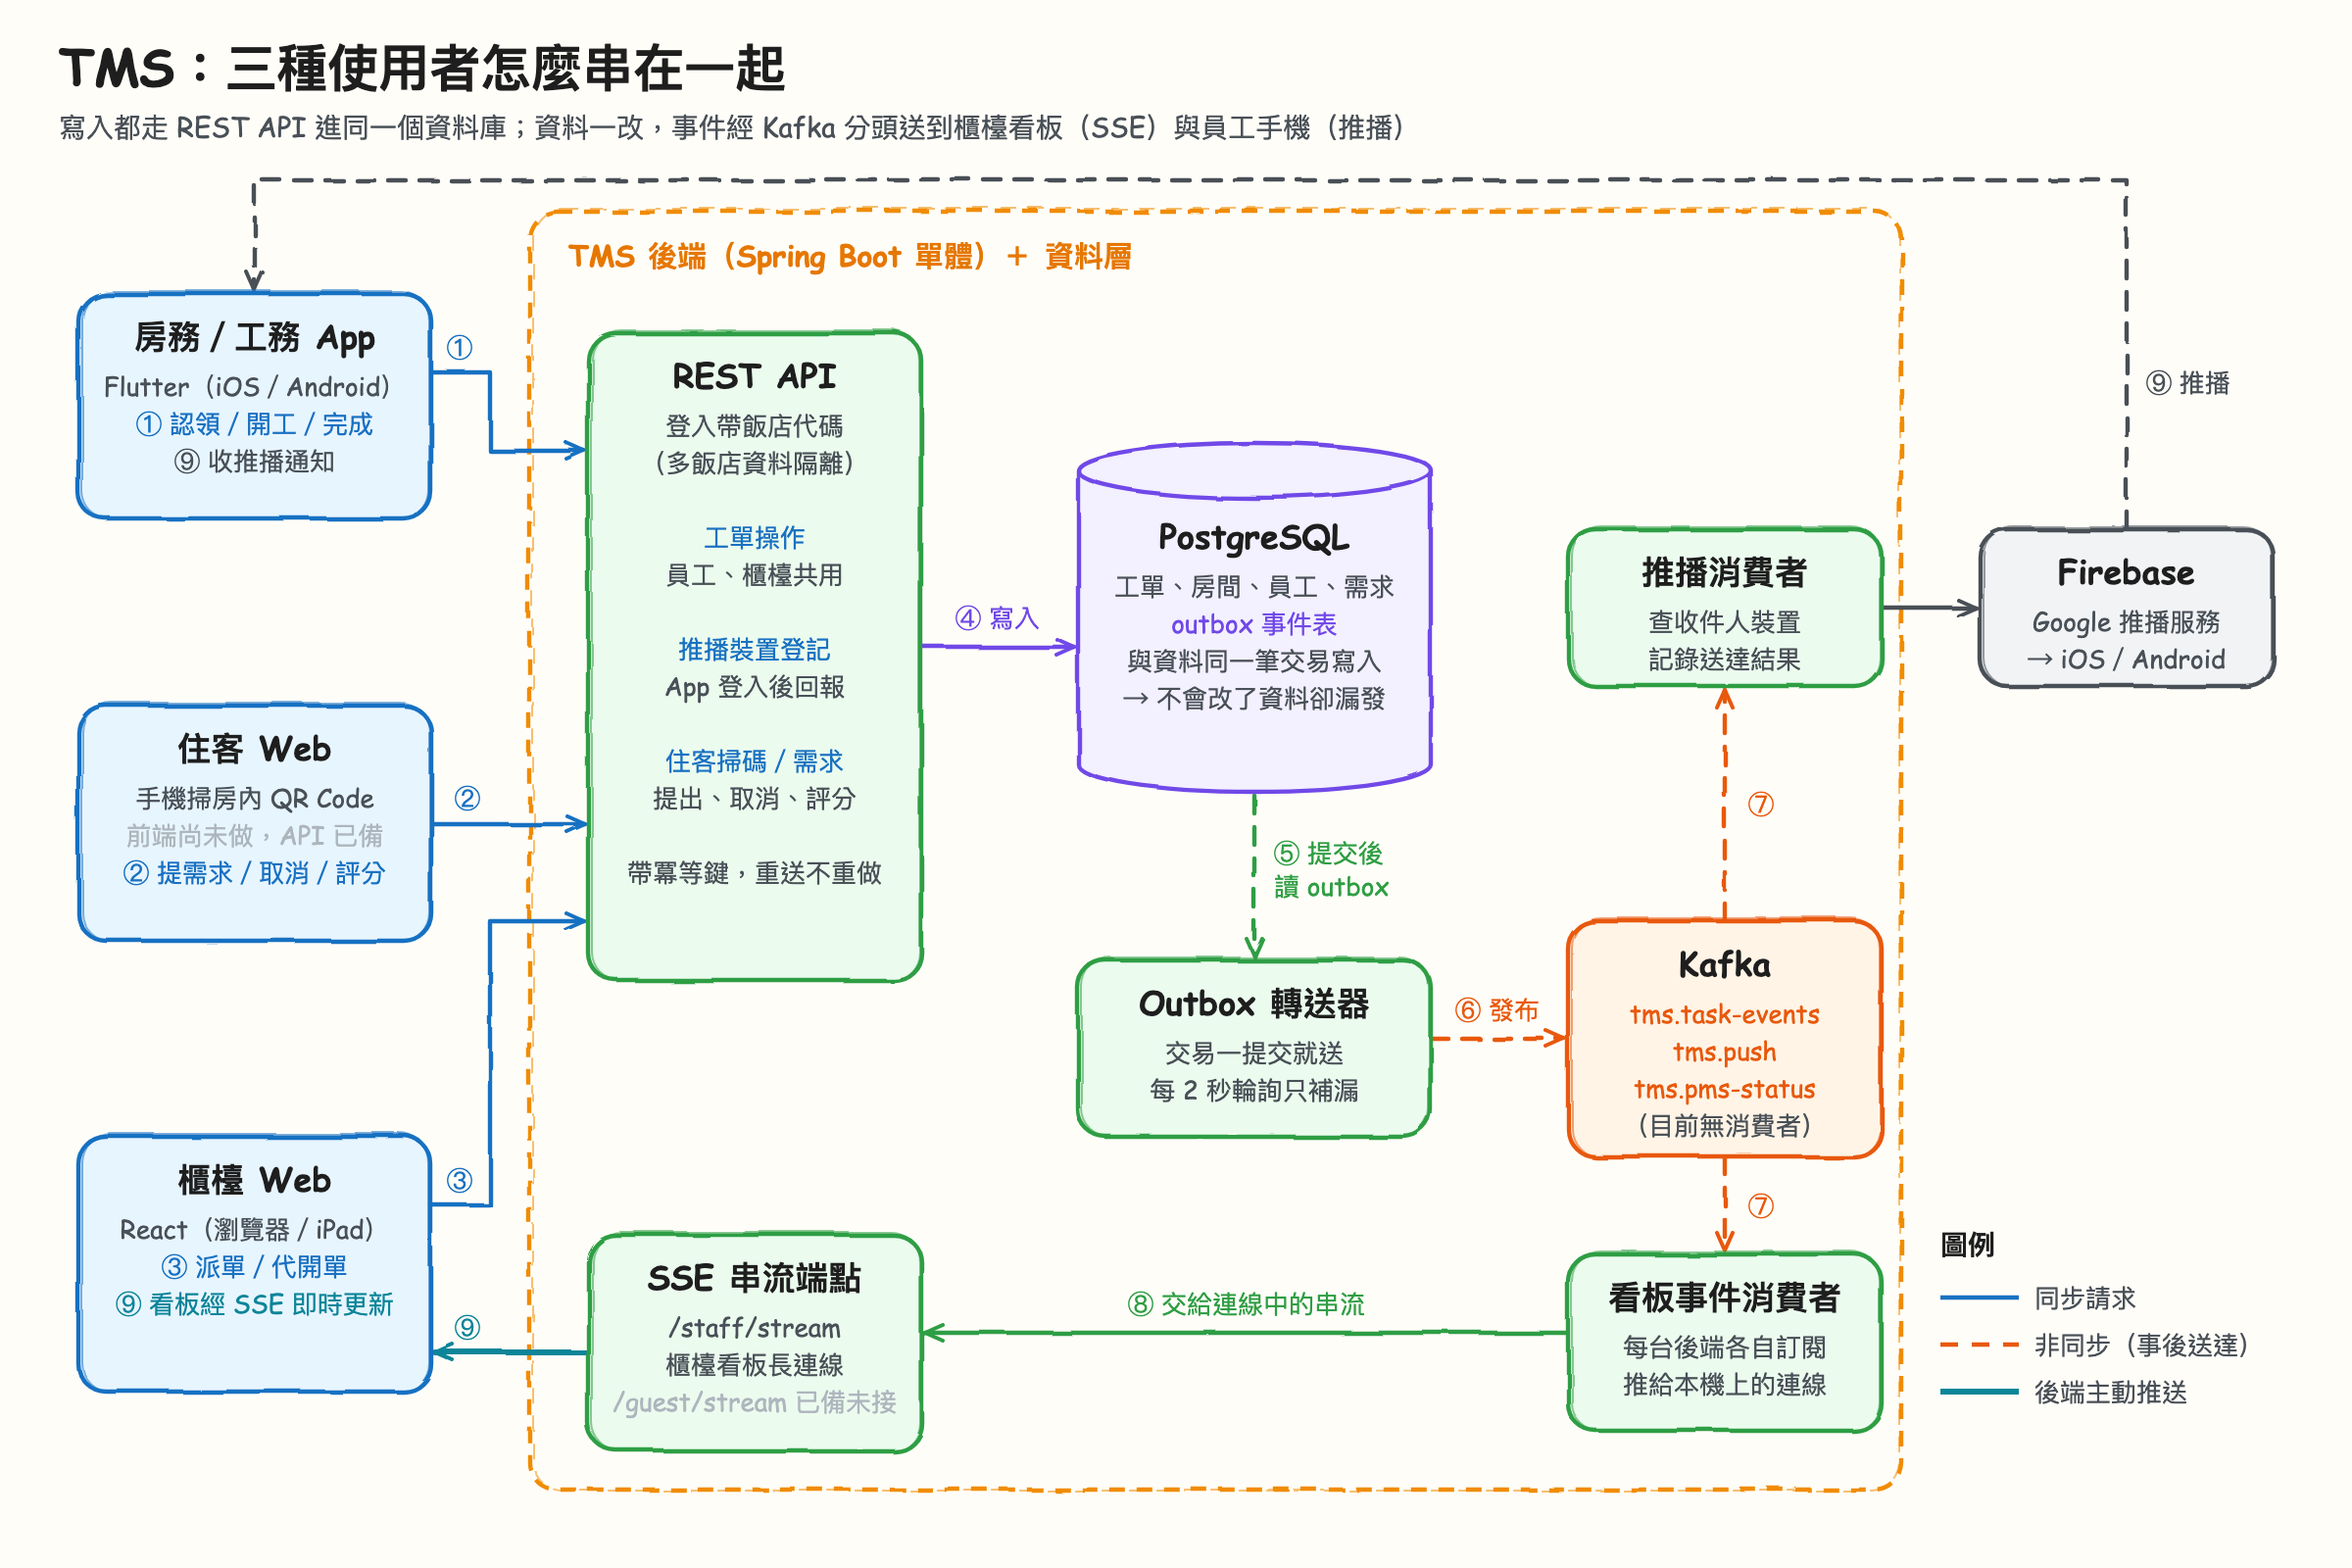
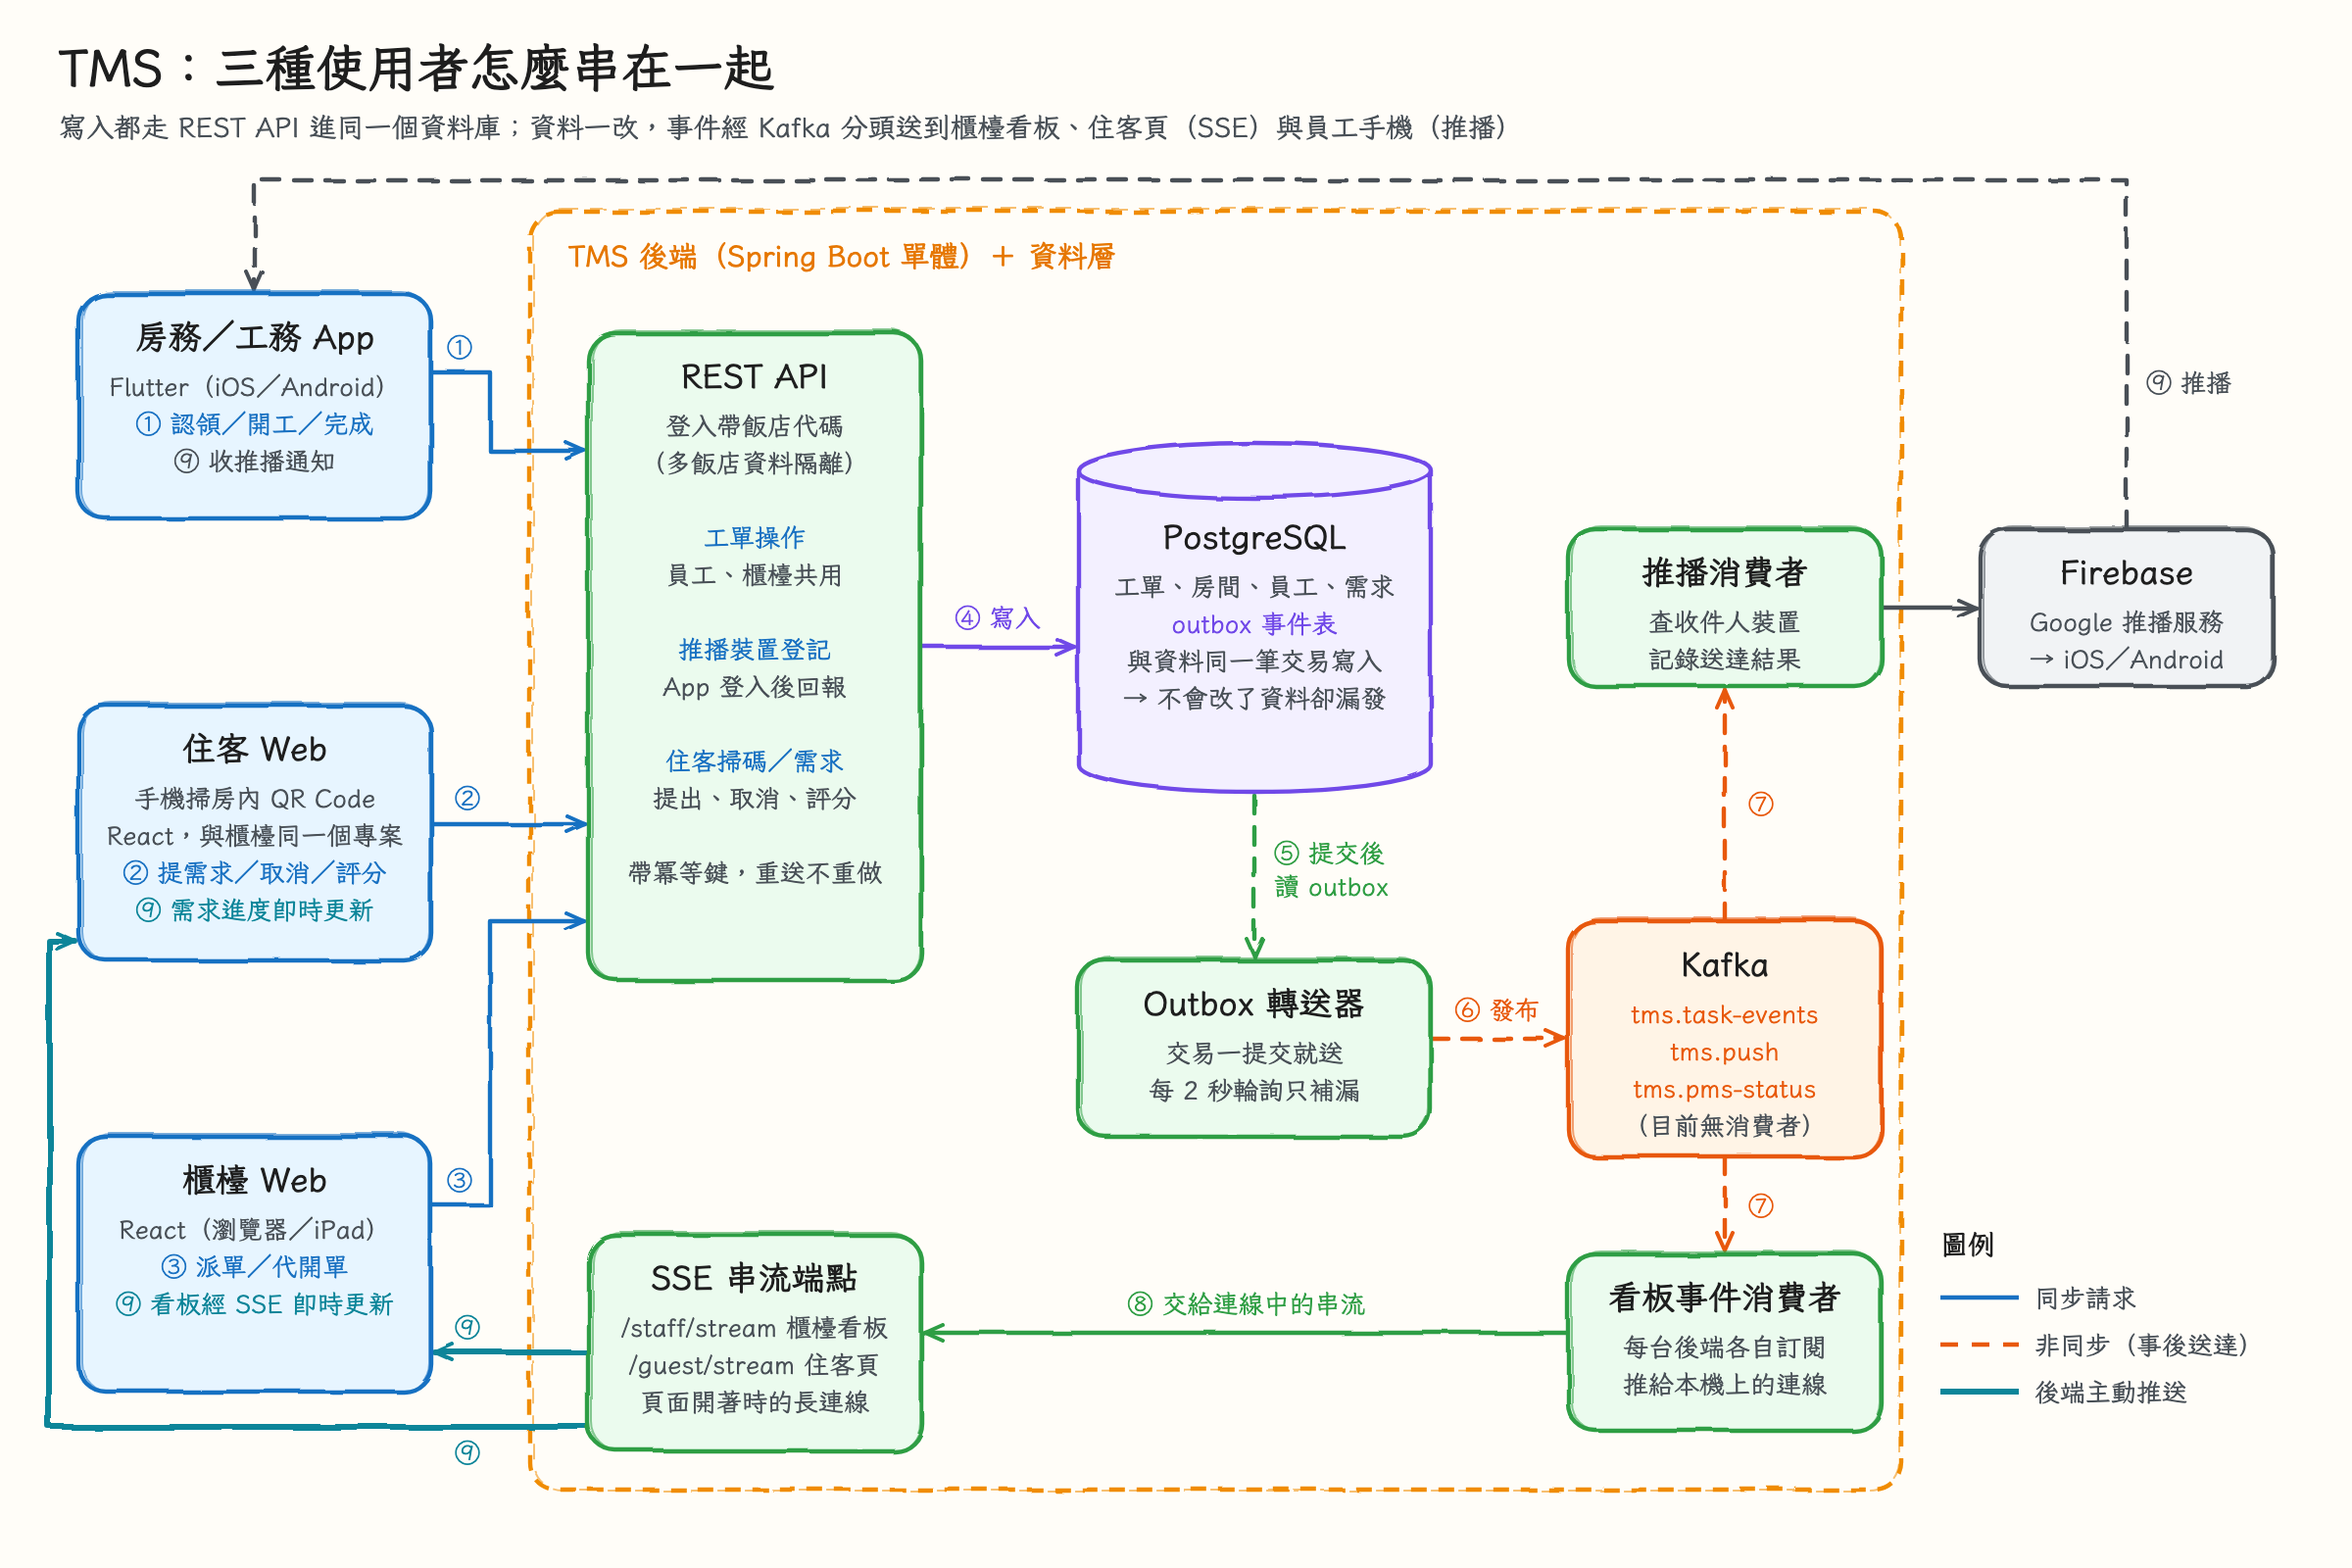
docs: README 改指向交接手冊、住客 Web 已上線；交接手冊移除過時說法；架構圖補住客頁 SSE
- README 文件導覽改指向 docs/14-handover，說明 11/12/13 是開發前設計稿
- README 住客 Web 改為已上線（app/web/src/guest，連 /guest/stream）
- 交接手冊總覽不再指路 11/12，改指 specs/truth/features 與 Flyway 遷移檔
- 移除「006 分支還沒合進 main／有未提交修改」的說法（已經 PR #7 合併），pitfalls 刪除 U1
- 架構圖住客 Web 改為已上線，補 /guest/stream 推到住客頁的箭頭

diff --git a/docs/14-handover/index.html b/docs/14-handover/index.html
@@ -24,7 +24,7 @@
 <header>
   <p class="eyebrow">TMS 任務交辦系統 · 工程交接</p>
   <h1>TMS 交接手冊</h1>
-  <p class="stand">這一頁 3 分鐘讀完：系統長什麼樣、你該先讀哪一頁、交接前最要緊的幾件事。細節都在後面五頁，照你手上的任務挑著讀就好。</p>
+  <p class="stand">這一頁 3 分鐘讀完：系統長什麼樣、你該先讀哪一頁、交接前最要緊的幾件事。細節都在後面六頁，照你手上的任務挑著讀就好。</p>
 </header>
 
 <section id="who">
@@ -32,7 +32,7 @@
   <div class="key"><b class="lbl">重點</b>
     <p>給接手這個 repo 的工程師。讀完能在自己的 Mac 上把三條驗收測試跑起來、知道新增一個測試場景要改哪幾個檔，並看懂員工 App 與 Java 後端怎麼組起來、哪裡會咬人。</p>
   </div>
-  <p>這裡只講「程式怎麼跑、測試怎麼跑、會在哪裡卡住」。需求與系統設計的來龍去脈請看 <a href="../11-requirements-architecture.html">11-requirements-architecture.html</a>，逐欄位的資料模型看 <a href="../12-data-model.html">12-data-model.html</a>。</p>
+  <p>這裡只講「程式怎麼跑、測試怎麼跑、會在哪裡卡住」。需求以 <code>specs/truth/features/</code> 的可執行規格為準，資料表以 <code>tms/src/main/resources/db/migration/</code> 的 Flyway 遷移檔為準；<code>docs/</code> 底下 11、12、13 等開發前的設計稿沒有跟著程式碼更新，不要拿來當依據。</p>
 </section>
 
 <section id="overview">
@@ -172,7 +172,7 @@
   </div>
   <ol class="top">
     <li><b>每條 Java 指令都要切到 JDK 25，後端測試還要帶 <code>-DargLine="-Dapi.version=1.44"</code>。</b>原機器 shell 預設是 17；那個參數是 OrbStack 上跑 Testcontainers 的唯一解法，沒寫進任何設定檔。<a href="setup.html#verify">怎麼確認環境通了</a></li>
-    <li><b>目前分支 <code>bugfix/main_engineering_pool_repair_ticket</code> 還沒合進 main，已知會紅的測試清單在 <code>specs/plans/006-engineering-pool-repair-ticket/implement-notes.md</code>。</b>第一次跑出紅燈，先對照它再懷疑環境。</li>
+    <li><b>已知會紅的測試清單在 <code>specs/plans/006-engineering-pool-repair-ticket/implement-notes.md</code>。</b>第一次跑出紅燈，先對照它再懷疑環境。</li>
     <li><b>App 與網頁驗收每個場景都會清空資料庫。</b>兩條線預設共用 8080／5433，不能同時跑；手動操作一律用 8083／<code>tms_manual</code>。<a href="setup.html#environments">三套環境</a></li>
     <li><b>既有的 Flyway 遷移檔一個字都不能改，連註解都不行。</b>改了後端就啟動失敗，要修只能新增更高版號的檔。<a href="backend.html#flyway">遷移規矩</a></li>
     <li><b>Android 正式版缺網路權限。</b><code>INTERNET</code> 只宣告在 debug 與 profile，release APK 會連不上網，是上線前最優先要修的一條。<a href="pitfalls.html#app-gaps">App 還沒補的洞</a></li>

diff --git a/docs/14-handover/pitfalls.html b/docs/14-handover/pitfalls.html
@@ -114,15 +114,14 @@
 <section id="todo">
   <h2>接手後還有哪些事要先查？</h2>
   <div class="key"><b class="lbl">重點</b>
-    <p>18 件盤點時沒能從程式碼確認、或要實際執行才知道的事，分四組。先處理第一組：目前分支的未提交修改怎麼收尾、測試現在綠不綠。</p>
+    <p>17 件盤點時沒能從程式碼確認、或要實際執行才知道的事，分四組。先處理第一組：測試現在綠不綠。</p>
   </div>
 
   <details open>
-    <summary>分支與測試現況 <span class="hint">— 5 件，最先處理</span></summary>
+    <summary>測試現況 <span class="hint">— 4 件，最先處理</span></summary>
     <div class="in"><div class="tablewrap"><table>
       <thead><tr><th>#</th><th>沒確認的事</th><th>目前知道的</th><th>建議怎麼查</th></tr></thead>
       <tbody>
-        <tr><td class="id">U1</td><td>目前分支未提交的修改要不要、怎麼收尾</td><td>工作樹有一批工務池開單相關的修改與新檔（例如 <code>repair/RepairTicketOpener.java</code>、<code>RepairTicketDraft.java</code>、<code>integration/V29EngineeringTaskBackfillTest.java</code>、<code>scripts/manual-env/up.sh</code>）。規劃中的 <code>V29__engineering_tasks_get_repair_tickets.sql</code> <b>還不存在</b>，但對應的測試檔已經有了</td><td><code>git status</code>；對照 <code>specs/plans/006-engineering-pool-repair-ticket/tasks.md</code> 與 <code>implement-notes.md</code></td></tr>
         <tr><td class="id">U2</td><td>測試目前綠不綠</td><td>盤點時沒有實跑任何測試。只能引用 006 implement-notes 的基準：後端行為規格 14 筆紅、Web 即時更新時序逾時數筆、住客 1 筆、App 工務單 11 筆</td><td>照<a href="setup.html#verify">三步確認</a>實跑一次，與 implement-notes 的清單比對</td></tr>
         <tr><td class="id">U13</td><td>App 是否曾在 Appium 上完整跑過一輪</td><td>紀錄上有一項「員工 App 連 Appium 實跑」曾待補跑，目前狀態不明</td><td><code>app/bdd/run-all.sh</code> 跑一次</td></tr>
         <tr><td class="id">U4</td><td><code>TESTCONTAINERS_RYUK_DISABLED=true</code> 為什麼要帶</td><td>所有指令都這樣下，但 repo 裡沒寫理由</td><td>拿掉跑一次看看會不會失敗</td></tr>

diff --git a/docs/14-handover/setup.html b/docs/14-handover/setup.html
@@ -91,7 +91,7 @@ docker compose up -d
 bash app/web-bdd/run-feature.sh frontdesk-web/待派單/待派單清單.feature desktop</pre></div>
 
   <div class="callout warn">
-    <p><b>先看現況再動手。</b>目前分支 <code>bugfix/main_engineering_pool_repair_ticket</code> 有一批尚未提交的修改（工務池開單相關），已知會紅的測試清單在 <code>specs/plans/006-engineering-pool-repair-ticket/implement-notes.md</code>。第一次跑出紅燈時，先對照那份清單。</p>
+    <p><b>先看現況再動手。</b>已知會紅的測試清單在 <code>specs/plans/006-engineering-pool-repair-ticket/implement-notes.md</code>。第一次跑出紅燈時，先對照那份清單。</p>
   </div>
 </section>
 
